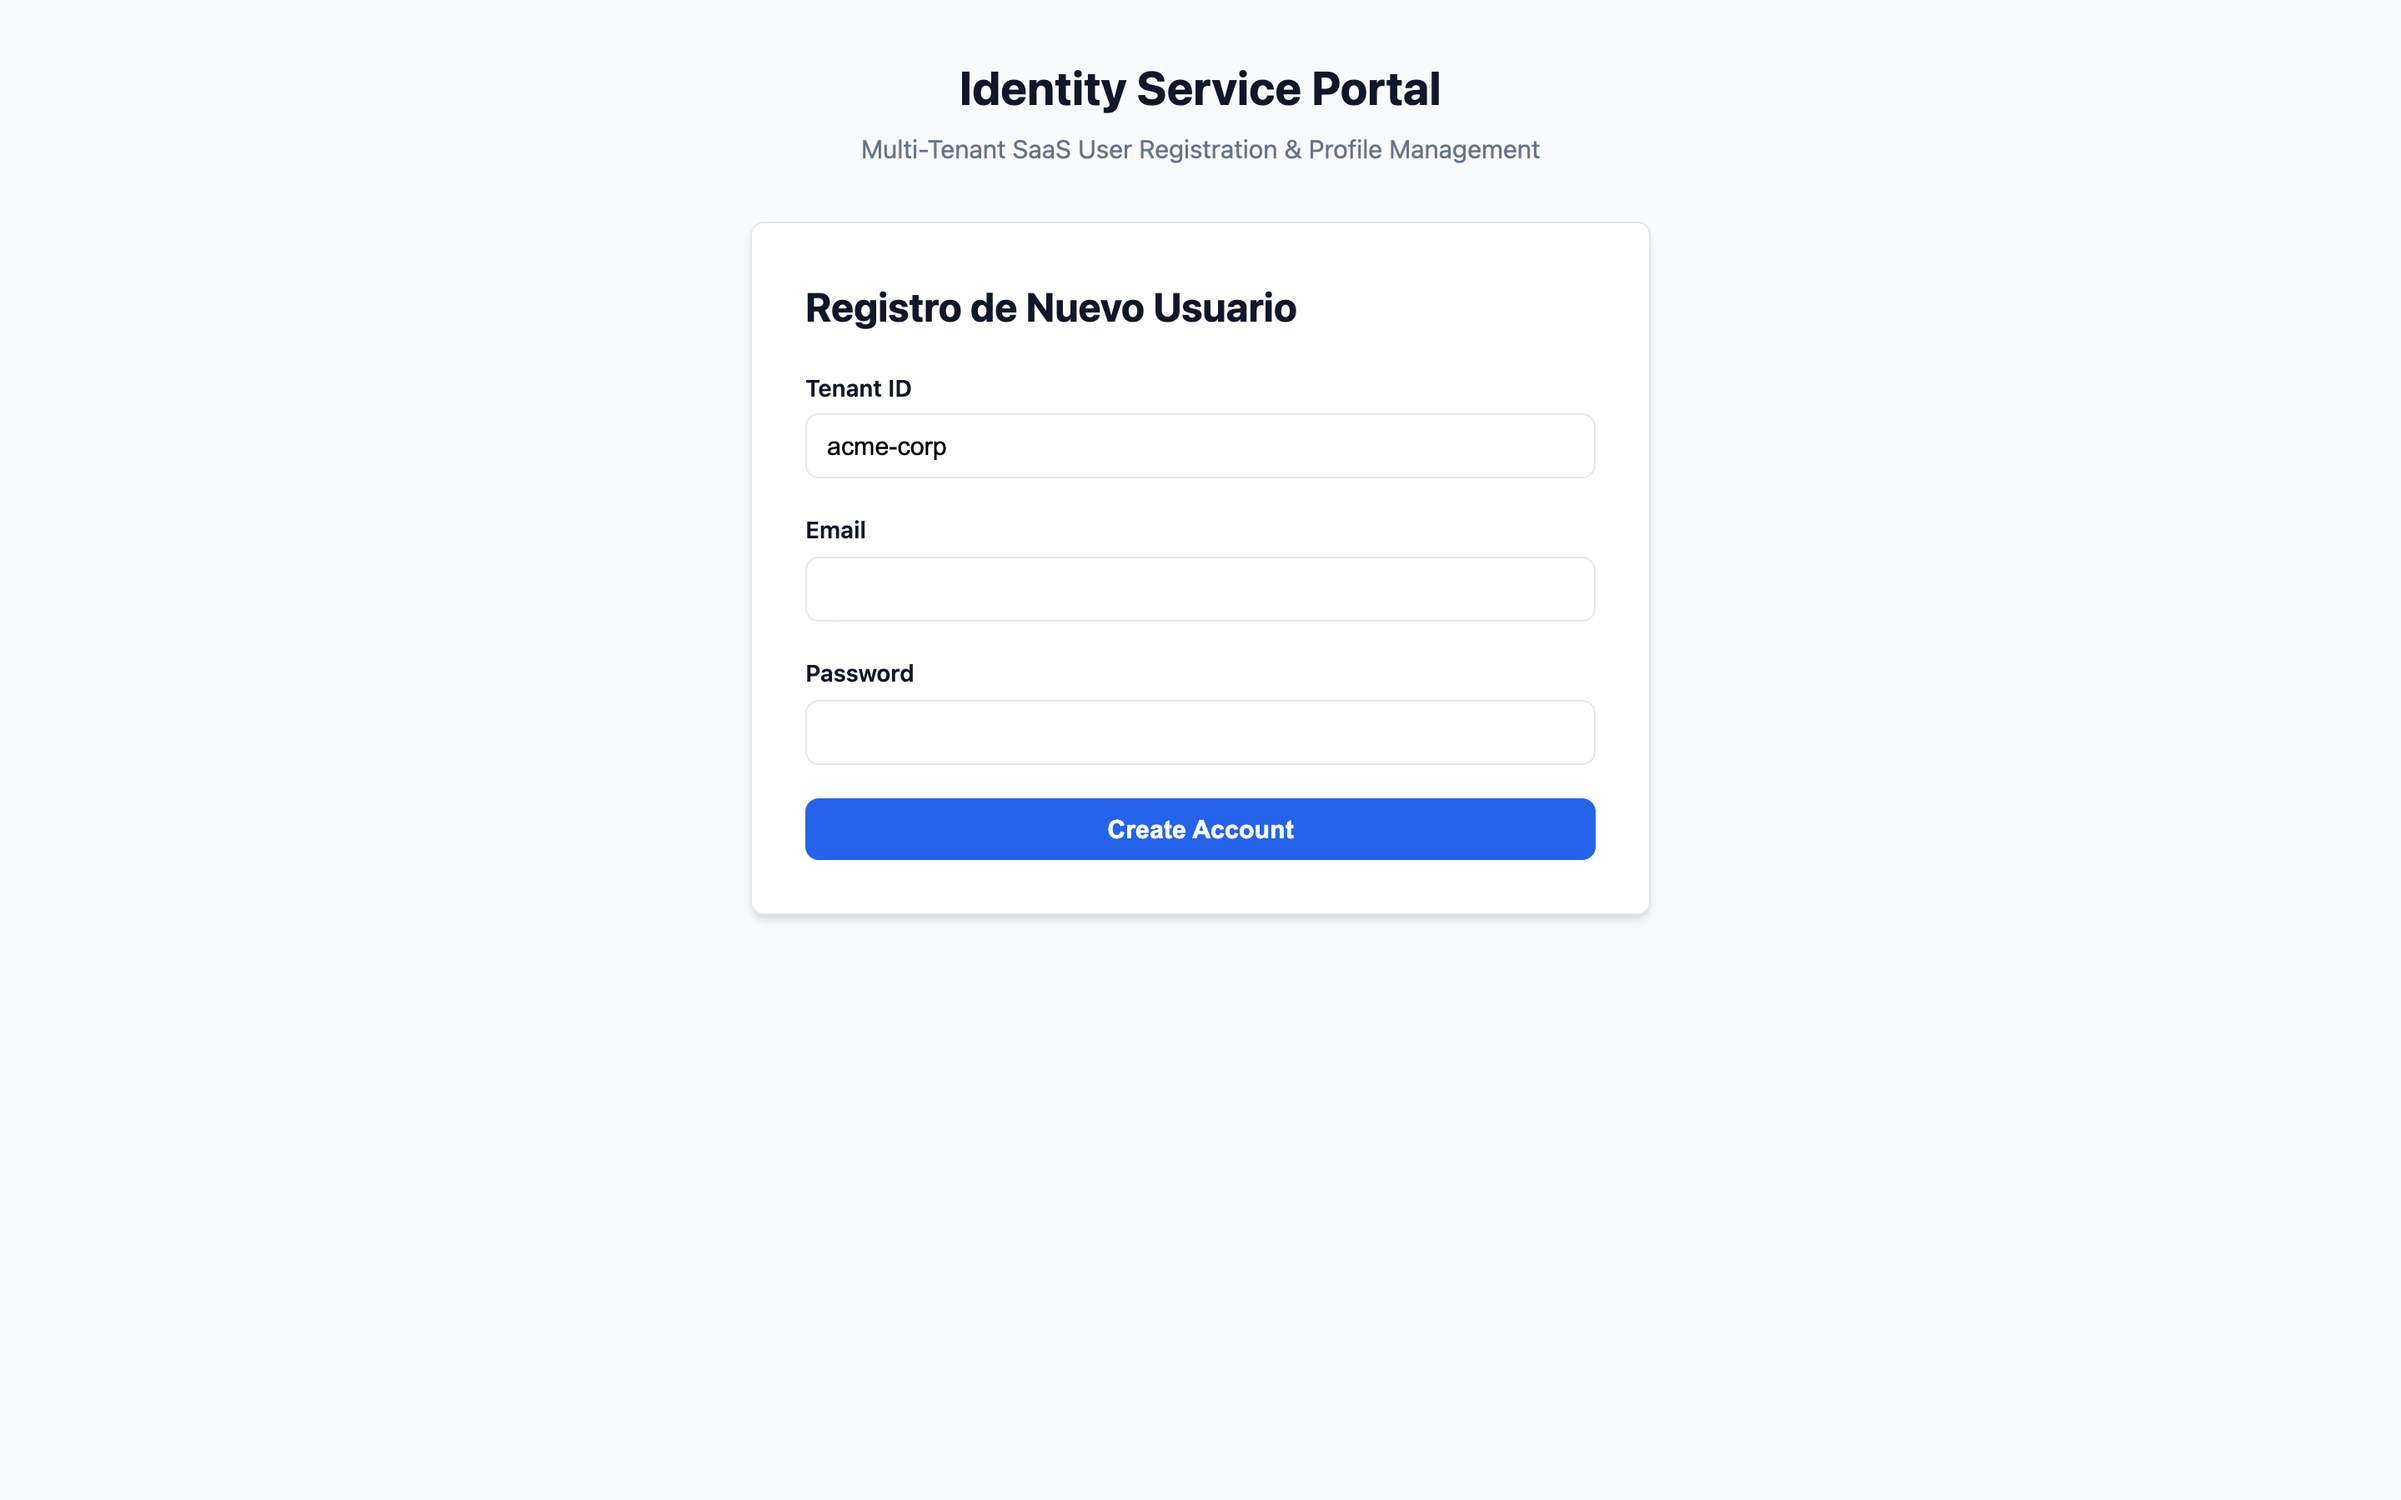
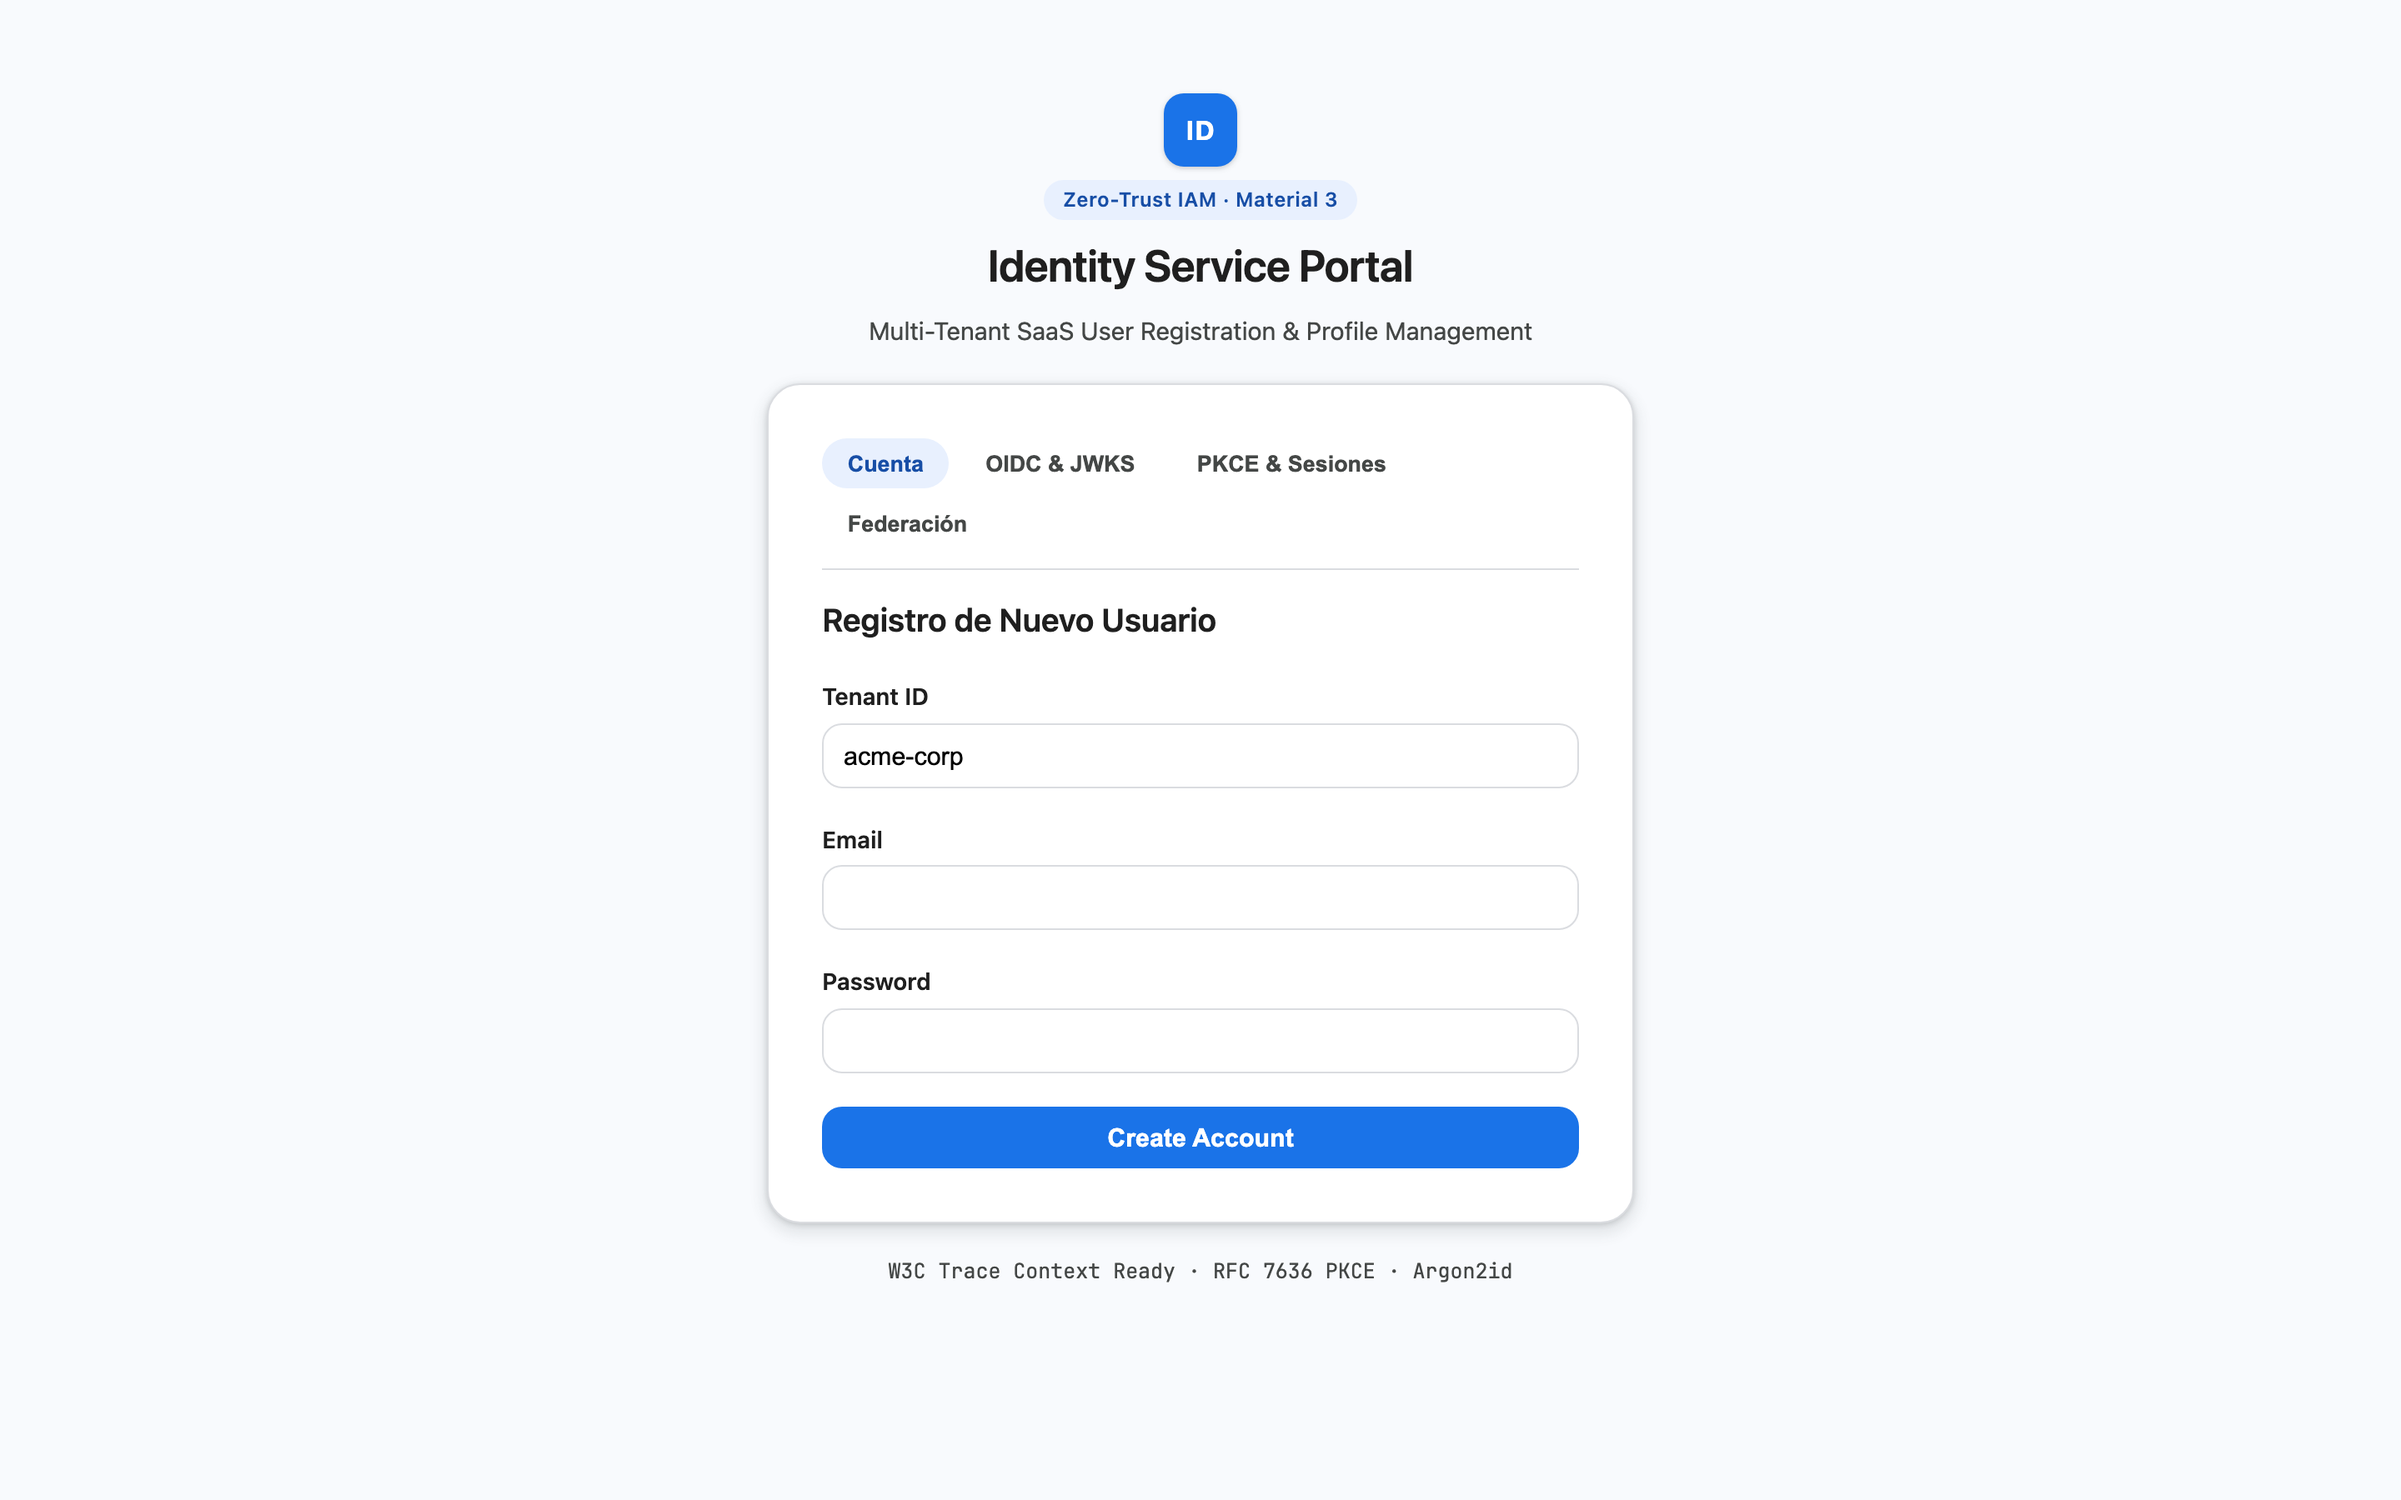
feat(showcase): capture Retina M3 UI screenshots for /auth, /tenant and /platform (US-27)

diff --git a/scripts/capture-showcase.ts b/scripts/capture-showcase.ts
@@ -54,10 +54,107 @@ async function runCapture() {
     }
 
     await page.click('button[type="submit"]');
-    await page.waitForSelector('.session-toolbar, .portal-card button', { timeout: 10000 });
-    await page.waitForTimeout(1200); // Allow cache hit/profile data to settle
+    await page.waitForSelector('button:has-text("Cerrar sesión"), .session-toolbar, .portal-card button', { timeout: 10000 });
+    await page.waitForTimeout(1000); // Allow cache hit/profile data to settle
     await page.screenshot({
       path: path.join(SCREENSHOT_DIR, 'us02_user_profile.png'),
+      fullPage: false,
+    });
+
+    // 3b. EPIC-09 / US-24: M3 /auth Portal tabs (Account, OIDC/JWKS, PKCE/Sessions, Federation)
+    console.log('📸 Capturing /auth M3 UI surfaces...');
+    await page.screenshot({
+      path: path.join(SCREENSHOT_DIR, 'ui_auth_account.png'),
+      fullPage: false,
+    });
+
+    await page.click('button[role="tab"]:has-text("OIDC & JWKS")');
+    await page.waitForTimeout(800);
+    await page.screenshot({
+      path: path.join(SCREENSHOT_DIR, 'ui_auth_oidc_jwks.png'),
+      fullPage: false,
+    });
+
+    await page.click('button[role="tab"]:has-text("PKCE & Sesiones")');
+    await page.waitForTimeout(600);
+    await page.screenshot({
+      path: path.join(SCREENSHOT_DIR, 'ui_auth_pkce_sessions.png'),
+      fullPage: false,
+    });
+
+    await page.click('button[role="tab"]:has-text("Federación")');
+    await page.waitForTimeout(600);
+    await page.screenshot({
+      path: path.join(SCREENSHOT_DIR, 'ui_auth_federation.png'),
+      fullPage: false,
+    });
+
+    // 3c. EPIC-09 / US-25: M3 /tenant Console (Clients & CORS, RLS Lab)
+    console.log('📸 Capturing /tenant M3 UI surfaces...');
+    await page.goto('http://localhost:3000/tenant', { waitUntil: 'networkidle', timeout: 15000 });
+    await page.waitForSelector('button[role="tab"]:has-text("Clientes & CORS")', { timeout: 10000 });
+    await page.waitForTimeout(800);
+    await page.screenshot({
+      path: path.join(SCREENSHOT_DIR, 'ui_tenant_clients_m2m.png'),
+      fullPage: false,
+    });
+
+    await page.click('button[role="tab"]:has-text("Laboratorio RLS")');
+    await page.waitForTimeout(600);
+    await page.screenshot({
+      path: path.join(SCREENSHOT_DIR, 'ui_tenant_rls_lab.png'),
+      fullPage: false,
+    });
+
+    // 3d. EPIC-09 / US-26: M3 /platform Console (Root Superadmin in system tenant)
+    console.log('📸 Provisioning Root Superadmin session and capturing /platform M3 UI surfaces...');
+    const rootEmail = `showcase.root.${Date.now()}@angelpixel.io`;
+    const rootRegRes = await fetch('http://localhost:4000/api/v1/auth/register', {
+      method: 'POST',
+      headers: {
+        'Content-Type': 'application/json',
+        'x-tenant-id': 'system',
+      },
+      body: JSON.stringify({
+        email: rootEmail,
+        password: 'RootShowcasePassword2026!',
+      }),
+    });
+    const rootSessionPayload = await rootRegRes.json();
+    await page.evaluate((sess) => {
+      localStorage.setItem(
+        'identity_session',
+        JSON.stringify({
+          token: sess.token,
+          userId: sess.userId,
+          email: sess.email,
+          tenantId: 'system',
+          roles: ['superadmin', 'member'],
+        })
+      );
+    }, rootSessionPayload);
+
+    await page.goto('http://localhost:3000/platform', { waitUntil: 'networkidle', timeout: 15000 });
+    await page.waitForSelector('[data-testid="platform-posture-summary"]', { timeout: 10000 });
+    await page.waitForTimeout(600);
+    await page.screenshot({
+      path: path.join(SCREENSHOT_DIR, 'ui_platform_posture.png'),
+      fullPage: false,
+    });
+
+    await page.click('button[role="tab"]:has-text("Bóveda Criptográfica")');
+    await page.waitForSelector('[data-testid="vault-status-summary"]', { timeout: 10000 });
+    await page.waitForTimeout(600);
+    await page.screenshot({
+      path: path.join(SCREENSHOT_DIR, 'ui_platform_vault_audit.png'),
+      fullPage: false,
+    });
+
+    await page.click('button[role="tab"]:has-text("Observabilidad SRE")');
+    await page.waitForSelector('[data-testid="sre-observability-summary"]', { timeout: 10000 });
+    await page.waitForTimeout(600);
+    await page.screenshot({
+      path: path.join(SCREENSHOT_DIR, 'ui_platform_sre.png'),
       fullPage: false,
     });
 
